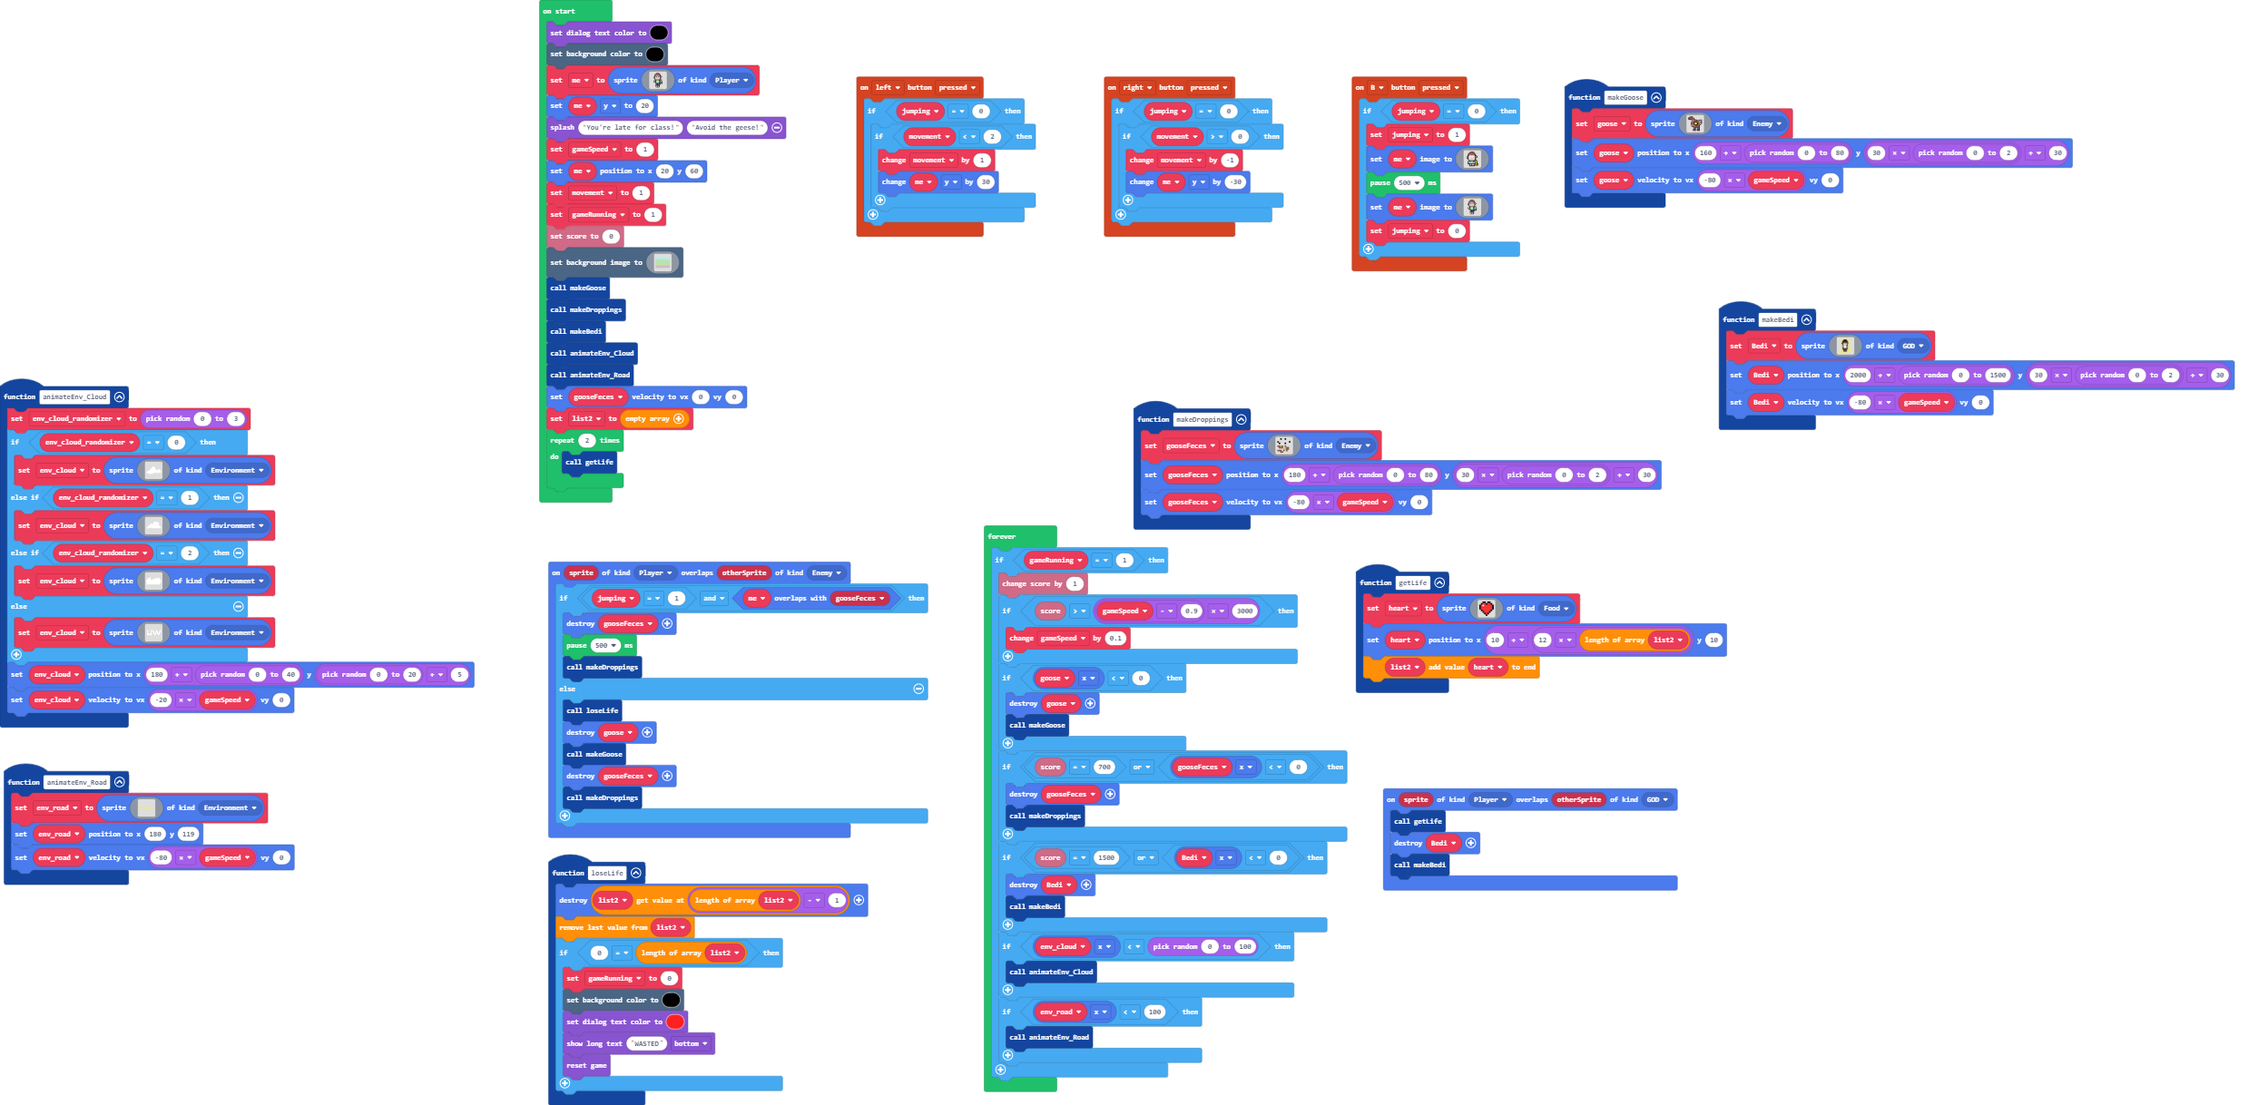
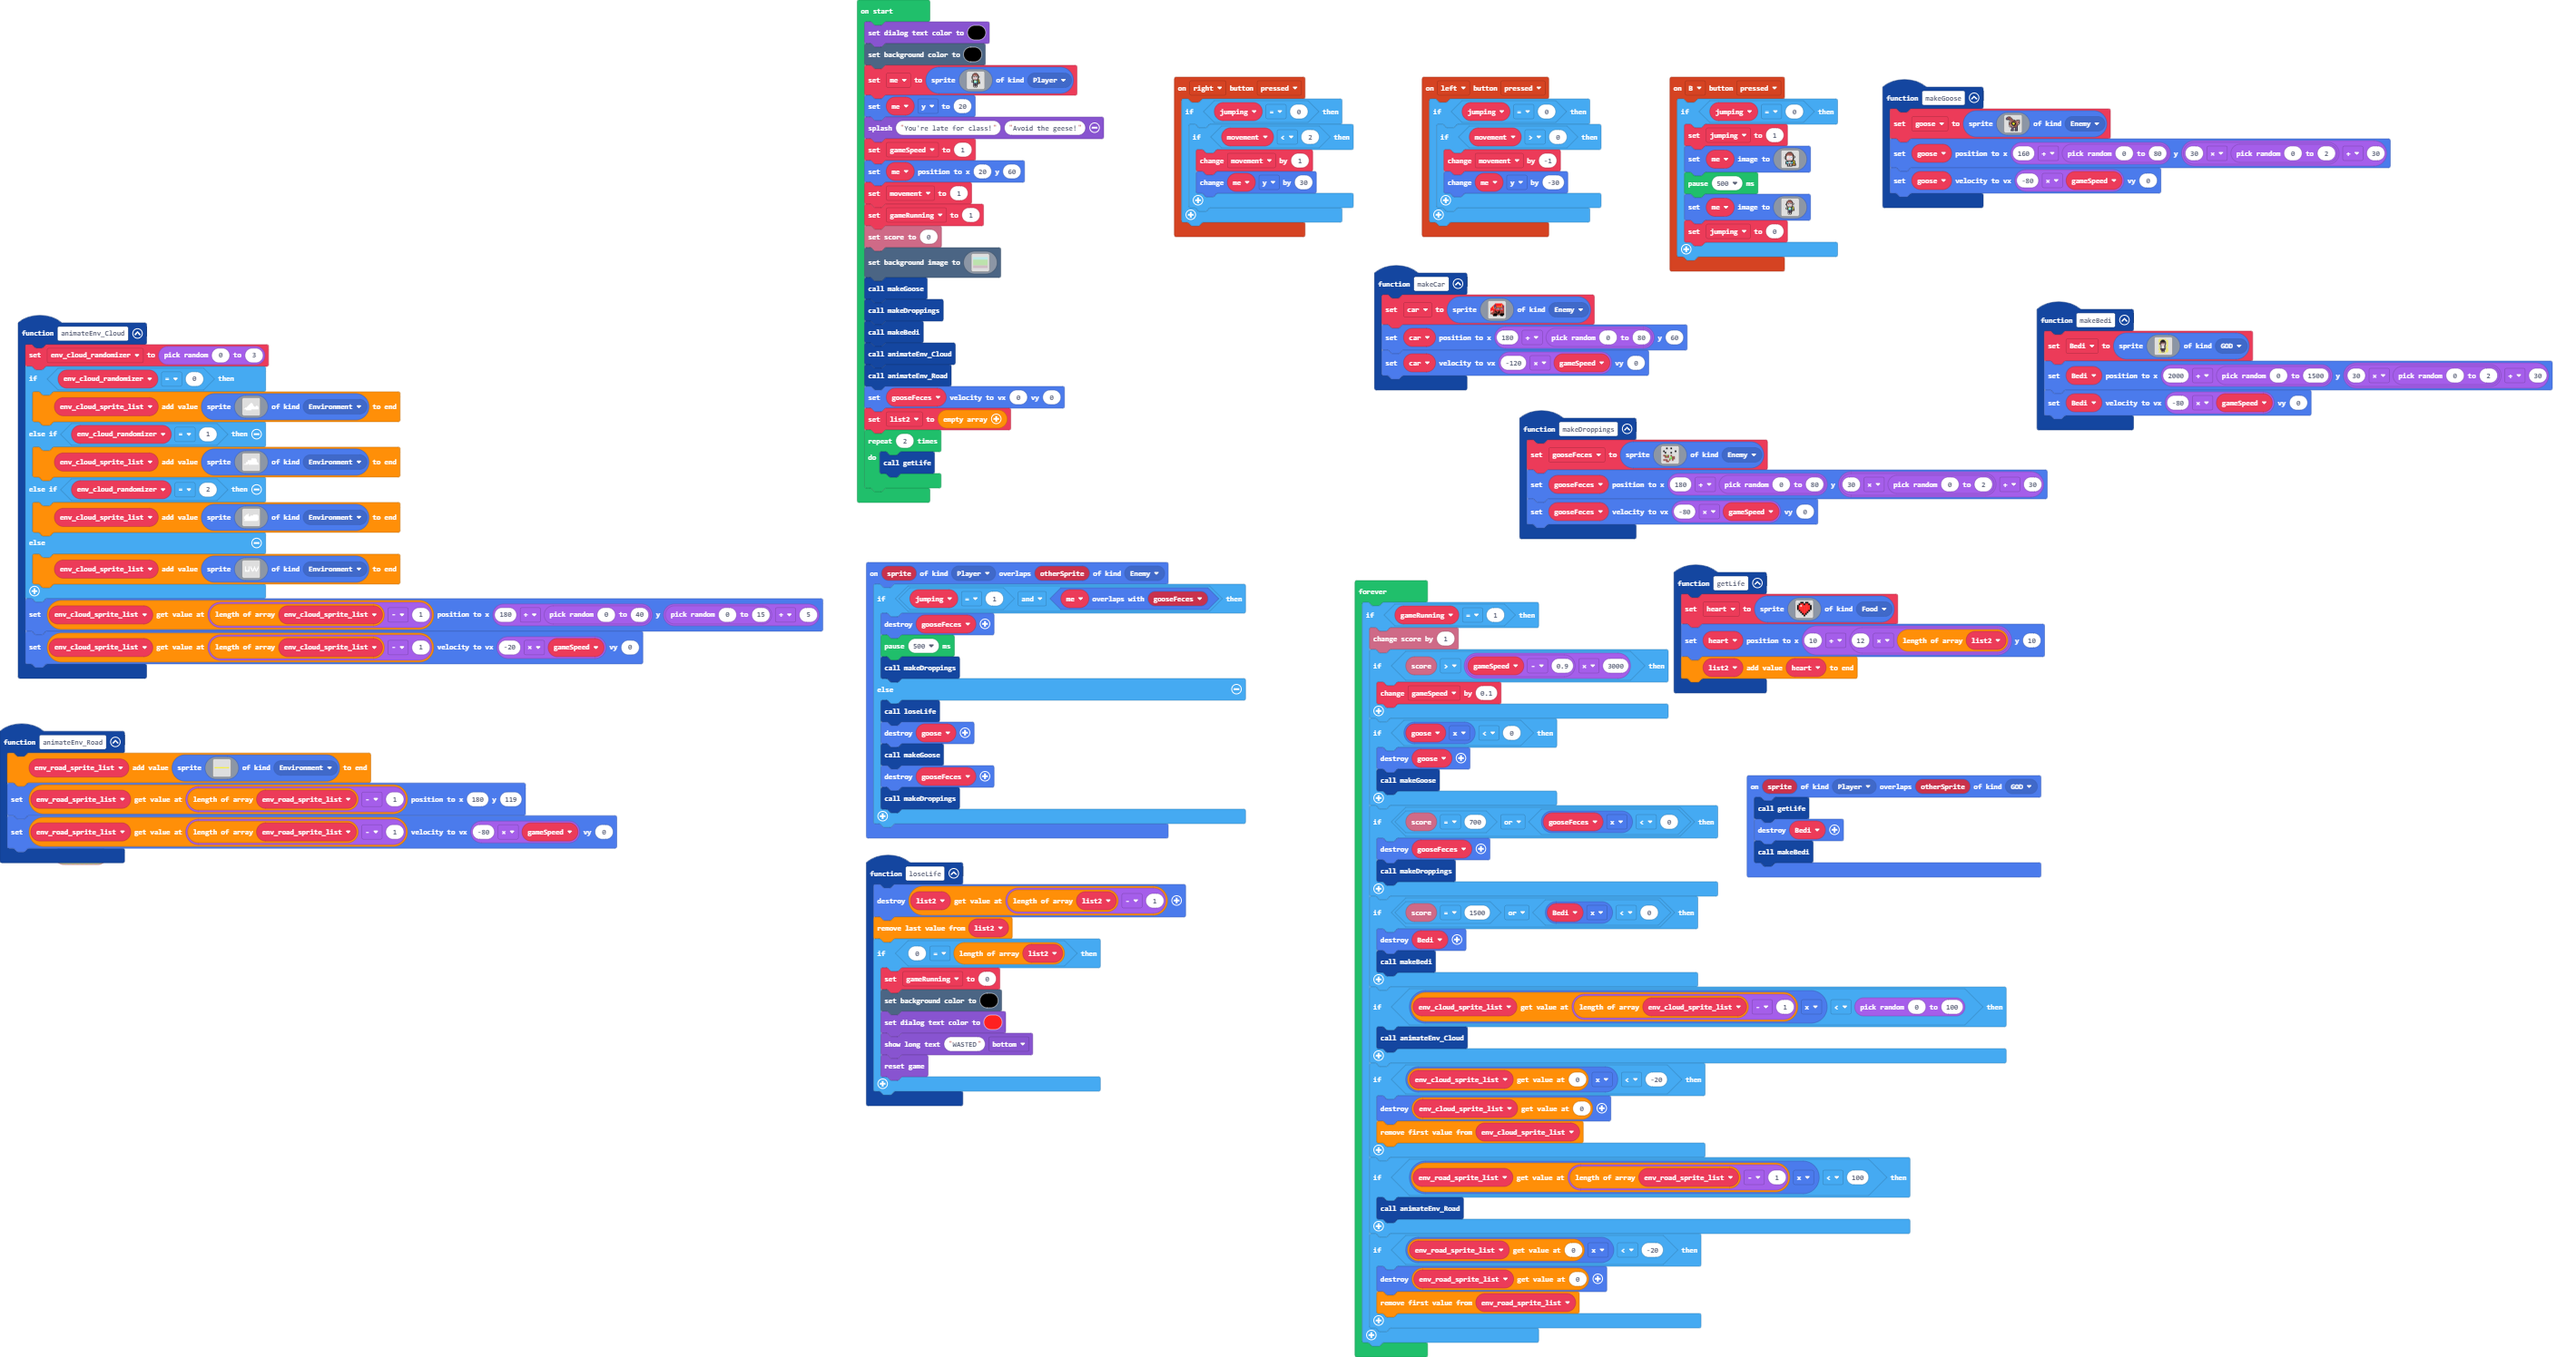
Fixed environment sprite lifecycle issue.

diff --git a/main.ts b/main.ts
@@ -124,12 +124,34 @@ function makeGoose () {
 }
 controller.left.onEvent(ControllerButtonEvent.Pressed, function () {
     if (jumping == 0) {
-        if (movement < 2) {
-            movement += 1
-            me.y += 30
+        if (movement > 0) {
+            movement += -1
+            me.y += -30
         }
     }
 })
+function makeCar () {
+    car = sprites.create(img`
+        . . . . . . . . . . . . . . . . 
+        . . . . . . 2 2 2 2 2 2 2 2 . . 
+        . . . . . 2 c 2 2 2 2 2 2 4 2 . 
+        . . . . 2 c c 2 2 2 2 2 2 4 c 2 
+        . . d 2 4 c c 2 4 4 4 4 4 4 c c 
+        . d 2 2 4 c b e e e e e e e 2 c 
+        . 2 2 2 4 b e e b b b e b b e 2 
+        . 2 2 2 2 2 e b b b b e b b b e 
+        . 2 2 2 2 e 2 2 2 2 2 e 2 2 2 e 
+        . 2 d d 2 e f e e e f e e e e e 
+        . d d 2 e e e f e e f e e e e e 
+        . e e e e e e e f f f e e e e e 
+        . e e e e f f f e e e e f f f f 
+        . . . e f f f f f e e f f f f f 
+        . . . . f f f f . . . . f f f . 
+        . . . . . . . . . . . . . . . . 
+        `, SpriteKind.Enemy)
+    car.setPosition(180 + randint(0, 80), 60)
+    car.setVelocity(-120 * gameSpeed, 0)
+}
 function loseLife () {
     list2[list2.length - 1].destroy()
     list2.pop()
@@ -143,9 +165,9 @@ function loseLife () {
 }
 controller.right.onEvent(ControllerButtonEvent.Pressed, function () {
     if (jumping == 0) {
-        if (movement > 0) {
-            movement += -1
-            me.y += -30
+        if (movement < 2) {
+            movement += 1
+            me.y += 30
         }
     }
 })
@@ -186,12 +208,12 @@ function makeBedi () {
     Bedi.setVelocity(-80 * gameSpeed, 0)
 }
 function animateEnv_Road () {
-    env_road = sprites.create(img`
+    env_road_sprite_list.push(sprites.create(img`
         5 5 5 5 5 5 5 5 5 5 5 5 5 5 5 5 5 5 5 5 5 5 5 5 5 5 5 5 5 5 
         5 5 5 5 5 5 5 5 5 5 5 5 5 5 5 5 5 5 5 5 5 5 5 5 5 5 5 5 5 5 
-        `, SpriteKind.Environment)
-    env_road.setPosition(180, 119)
-    env_road.setVelocity(-80 * gameSpeed, 0)
+        `, SpriteKind.Environment))
+    env_road_sprite_list[env_road_sprite_list.length - 1].setPosition(180, 119)
+    env_road_sprite_list[env_road_sprite_list.length - 1].setVelocity(-80 * gameSpeed, 0)
 }
 sprites.onOverlap(SpriteKind.Player, SpriteKind.GOD, function (sprite, otherSprite) {
     getLife()
@@ -201,7 +223,7 @@ sprites.onOverlap(SpriteKind.Player, SpriteKind.GOD, function (sprite, otherSpri
 function animateEnv_Cloud () {
     env_cloud_randomizer = randint(0, 3)
     if (env_cloud_randomizer == 0) {
-        env_cloud = sprites.create(img`
+        env_cloud_sprite_list.push(sprites.create(img`
             . . . . . . . 1 1 . . . . . . . 
             . . . . . . 1 1 1 1 . . . . . . 
             . . . . . 1 1 1 1 1 . . . . . . 
@@ -210,9 +232,9 @@ function animateEnv_Cloud () {
             . 1 1 1 1 1 1 1 1 1 1 1 1 1 1 1 
             1 1 1 1 1 1 1 1 1 1 1 1 1 1 1 1 
             . . 1 1 1 1 1 1 . . . . . . . . 
-            `, SpriteKind.Environment)
+            `, SpriteKind.Environment))
     } else if (env_cloud_randomizer == 1) {
-        env_cloud = sprites.create(img`
+        env_cloud_sprite_list.push(sprites.create(img`
             . . . . . . . . 1 1 1 1 1 . . . 
             . . . . . . . . 1 1 1 1 1 1 . . 
             . . . . 1 1 1 1 1 1 1 1 1 1 . . 
@@ -221,9 +243,9 @@ function animateEnv_Cloud () {
             . . 1 1 1 1 1 1 1 1 1 1 1 1 1 1 
             1 1 1 1 . 1 1 1 1 1 1 1 1 1 1 1 
             . . . . . . . . . . . . . . . . 
-            `, SpriteKind.Environment)
+            `, SpriteKind.Environment))
     } else if (env_cloud_randomizer == 2) {
-        env_cloud = sprites.create(img`
+        env_cloud_sprite_list.push(sprites.create(img`
             . . . . 1 . . . . . . . . . . . 
             . . 1 1 1 . . . . . 1 1 1 1 1 . 
             . 1 1 1 1 . . 1 1 1 1 1 1 1 1 1 
@@ -232,9 +254,9 @@ function animateEnv_Cloud () {
             1 1 1 1 1 1 1 1 1 1 1 1 1 1 1 1 
             . 1 1 1 1 1 1 1 1 1 1 1 1 1 1 1 
             1 1 1 1 1 1 1 1 1 1 1 1 1 1 1 . 
-            `, SpriteKind.Environment)
+            `, SpriteKind.Environment))
     } else {
-        env_cloud = sprites.create(img`
+        env_cloud_sprite_list.push(sprites.create(img`
             . . . . . . . . . . . . . . . . 
             . 1 . . . 1 . 1 . . . 1 . . . 1 
             . 1 . . . 1 . 1 . . . 1 . . . 1 
@@ -243,10 +265,10 @@ function animateEnv_Cloud () {
             . 1 1 . 1 1 . . 1 1 1 . 1 1 1 . 
             . 1 1 1 1 1 . . . 1 . . . 1 . . 
             . . . . . . . . . . . . . . . . 
-            `, SpriteKind.Environment)
+            `, SpriteKind.Environment))
     }
-    env_cloud.setPosition(180 + randint(0, 40), randint(0, 20) + 5)
-    env_cloud.setVelocity(-20 * gameSpeed, 0)
+    env_cloud_sprite_list[env_cloud_sprite_list.length - 1].setPosition(180 + randint(0, 40), randint(0, 15) + 5)
+    env_cloud_sprite_list[env_cloud_sprite_list.length - 1].setVelocity(-20 * gameSpeed, 0)
 }
 sprites.onOverlap(SpriteKind.Player, SpriteKind.Enemy, function (sprite, otherSprite) {
     if (jumping == 1 && me.overlapsWith(gooseFeces)) {
@@ -261,10 +283,11 @@ sprites.onOverlap(SpriteKind.Player, SpriteKind.Enemy, function (sprite, otherSp
         makeDroppings()
     }
 })
-let env_cloud: Sprite = null
+let env_cloud_sprite_list: Sprite[] = []
 let env_cloud_randomizer = 0
-let env_road: Sprite = null
+let env_road_sprite_list: Sprite[] = []
 let Bedi: Sprite = null
+let car: Sprite = null
 let goose: Sprite = null
 let jumping = 0
 let heart: Sprite = null
@@ -461,11 +484,19 @@ forever(function () {
             Bedi.destroy()
             makeBedi()
         }
-        if (env_cloud.x < randint(0, 100)) {
+        if (env_cloud_sprite_list[env_cloud_sprite_list.length - 1].x < randint(0, 100)) {
             animateEnv_Cloud()
         }
-        if (env_road.x < 100) {
+        if (env_cloud_sprite_list[0].x < -20) {
+            env_cloud_sprite_list[0].destroy()
+            env_cloud_sprite_list.shift()
+        }
+        if (env_road_sprite_list[env_road_sprite_list.length - 1].x < 100) {
             animateEnv_Road()
+        }
+        if (env_road_sprite_list[0].x < -20) {
+            env_road_sprite_list[0].destroy()
+            env_road_sprite_list.shift()
         }
     }
 })

diff --git a/main.py b/main.py
@@ -2,59 +2,6 @@
 class SpriteKind:
     GOD = SpriteKind.create()
     Environment = SpriteKind.create()
-def animateEnv():
-    global env_cloud_randomizer, env_cloud
-    env_cloud_randomizer = randint(0, 3)
-    if env_cloud_randomizer == 0:
-        env_cloud = sprites.create(img("""
-                . . . . . . . 1 1 . . . . . . . 
-                            . . . . . . 1 1 1 1 . . . . . . 
-                            . . . . . 1 1 1 1 1 . . . . . . 
-                            . . . . 1 1 1 1 1 1 1 . . 1 1 . 
-                            . . . 1 1 1 1 1 1 1 1 1 1 1 1 1 
-                            . 1 1 1 1 1 1 1 1 1 1 1 1 1 1 1 
-                            1 1 1 1 1 1 1 1 1 1 1 1 1 1 1 1 
-                            . . 1 1 1 1 1 1 . . . . . . . .
-            """),
-            SpriteKind.Environment)
-    elif env_cloud_randomizer == 1:
-        env_cloud = sprites.create(img("""
-                . . . . . . . . 1 1 1 1 1 . . . 
-                            . . . . . . . . 1 1 1 1 1 1 . . 
-                            . . . . 1 1 1 1 1 1 1 1 1 1 . . 
-                            . . . . 1 1 1 1 1 1 1 1 1 1 . . 
-                            . . 1 1 1 1 1 1 1 1 1 1 1 1 1 . 
-                            . . 1 1 1 1 1 1 1 1 1 1 1 1 1 1 
-                            1 1 1 1 . 1 1 1 1 1 1 1 1 1 1 1 
-                            . . . . . . . . . . . . . . . .
-            """),
-            SpriteKind.Environment)
-    elif env_cloud_randomizer == 2:
-        env_cloud = sprites.create(img("""
-                . . . . 1 . . . . . . . . . . . 
-                            . . 1 1 1 . . . . . 1 1 1 1 1 . 
-                            . 1 1 1 1 . . 1 1 1 1 1 1 1 1 1 
-                            1 1 1 1 1 1 1 1 1 1 1 1 1 1 1 1 
-                            1 1 1 1 1 1 1 1 1 1 1 1 1 1 1 1 
-                            1 1 1 1 1 1 1 1 1 1 1 1 1 1 1 1 
-                            . 1 1 1 1 1 1 1 1 1 1 1 1 1 1 1 
-                            1 1 1 1 1 1 1 1 1 1 1 1 1 1 1 .
-            """),
-            SpriteKind.Environment)
-    else:
-        env_cloud = sprites.create(img("""
-                . . . . . . . . . . . . . . . . 
-                            . 1 . . . 1 . 1 . . . 1 . . . 1 
-                            . 1 . . . 1 . 1 . . . 1 . . . 1 
-                            . 1 . . . 1 . 1 1 . 1 1 1 . 1 1 
-                            . 1 . . . 1 . . 1 . 1 . 1 . 1 . 
-                            . 1 1 . 1 1 . . 1 1 1 . 1 1 1 . 
-                            . 1 1 1 1 1 . . . 1 . . . 1 . . 
-                            . . . . . . . . . . . . . . . .
-            """),
-            SpriteKind.Environment)
-    env_cloud.set_position(180 + randint(0, 40), randint(0, 10) + 5)
-    env_cloud.set_velocity(-30 * gameSpeed, 0)
 def getLife():
     global heart
     heart = sprites.create(img("""
@@ -184,11 +131,34 @@ def makeGoose():
 def on_left_pressed():
     global movement
     if jumping == 0:
-        if movement < 2:
-            movement += 1
-            me.y += 30
+        if movement > 0:
+            movement += -1
+            me.y += -30
 controller.left.on_event(ControllerButtonEvent.PRESSED, on_left_pressed)
 
+def makeCar():
+    global car
+    car = sprites.create(img("""
+            . . . . . . . . . . . . . . . . 
+                    . . . . . . 2 2 2 2 2 2 2 2 . . 
+                    . . . . . 2 c 2 2 2 2 2 2 4 2 . 
+                    . . . . 2 c c 2 2 2 2 2 2 4 c 2 
+                    . . d 2 4 c c 2 4 4 4 4 4 4 c c 
+                    . d 2 2 4 c b e e e e e e e 2 c 
+                    . 2 2 2 4 b e e b b b e b b e 2 
+                    . 2 2 2 2 2 e b b b b e b b b e 
+                    . 2 2 2 2 e 2 2 2 2 2 e 2 2 2 e 
+                    . 2 d d 2 e f e e e f e e e e e 
+                    . d d 2 e e e f e e f e e e e e 
+                    . e e e e e e e f f f e e e e e 
+                    . e e e e f f f e e e e f f f f 
+                    . . . e f f f f f e e f f f f f 
+                    . . . . f f f f . . . . f f f . 
+                    . . . . . . . . . . . . . . . .
+        """),
+        SpriteKind.enemy)
+    car.set_position(180 + randint(0, 80), 60)
+    car.set_velocity(-120 * gameSpeed, 0)
 def loseLife():
     global gameRunning
     list2[len(list2) - 1].destroy()
@@ -203,9 +173,9 @@ def loseLife():
 def on_right_pressed():
     global movement
     if jumping == 0:
-        if movement > 0:
-            movement += -1
-            me.y += -30
+        if movement < 2:
+            movement += 1
+            me.y += 30
 controller.right.on_event(ControllerButtonEvent.PRESSED, on_right_pressed)
 
 def makeBedi():
@@ -245,12 +215,75 @@ def makeBedi():
         SpriteKind.GOD)
     Bedi.set_position(2000 + randint(0, 1500), 30 * randint(0, 2) + 30)
     Bedi.set_velocity(-80 * gameSpeed, 0)
+def animateEnv_Road():
+    global env_road
+    env_road = sprites.create(img("""
+            5 5 5 5 5 5 5 5 5 5 5 5 5 5 5 5 5 5 5 5 5 5 5 5 5 5 5 5 5 5 
+                    5 5 5 5 5 5 5 5 5 5 5 5 5 5 5 5 5 5 5 5 5 5 5 5 5 5 5 5 5 5
+        """),
+        SpriteKind.Environment)
+    env_road.set_position(180, 119)
+    env_road.set_velocity(-80 * gameSpeed, 0)
 
 def on_on_overlap(sprite, otherSprite):
     getLife()
     Bedi.destroy()
     makeBedi()
 sprites.on_overlap(SpriteKind.player, SpriteKind.GOD, on_on_overlap)
+
+def animateEnv_Cloud():
+    global env_cloud_randomizer
+    env_cloud_randomizer = randint(0, 3)
+    if env_cloud_randomizer == 0:
+        env_cloud_sprite_list.append(sprites.create(img("""
+                    . . . . . . . 1 1 . . . . . . . 
+                                . . . . . . 1 1 1 1 . . . . . . 
+                                . . . . . 1 1 1 1 1 . . . . . . 
+                                . . . . 1 1 1 1 1 1 1 . . 1 1 . 
+                                . . . 1 1 1 1 1 1 1 1 1 1 1 1 1 
+                                . 1 1 1 1 1 1 1 1 1 1 1 1 1 1 1 
+                                1 1 1 1 1 1 1 1 1 1 1 1 1 1 1 1 
+                                . . 1 1 1 1 1 1 . . . . . . . .
+                """),
+                SpriteKind.Environment))
+    elif env_cloud_randomizer == 1:
+        env_cloud_sprite_list.append(sprites.create(img("""
+                    . . . . . . . . 1 1 1 1 1 . . . 
+                                . . . . . . . . 1 1 1 1 1 1 . . 
+                                . . . . 1 1 1 1 1 1 1 1 1 1 . . 
+                                . . . . 1 1 1 1 1 1 1 1 1 1 . . 
+                                . . 1 1 1 1 1 1 1 1 1 1 1 1 1 . 
+                                . . 1 1 1 1 1 1 1 1 1 1 1 1 1 1 
+                                1 1 1 1 . 1 1 1 1 1 1 1 1 1 1 1 
+                                . . . . . . . . . . . . . . . .
+                """),
+                SpriteKind.Environment))
+    elif env_cloud_randomizer == 2:
+        env_cloud_sprite_list.append(sprites.create(img("""
+                    . . . . 1 . . . . . . . . . . . 
+                                . . 1 1 1 . . . . . 1 1 1 1 1 . 
+                                . 1 1 1 1 . . 1 1 1 1 1 1 1 1 1 
+                                1 1 1 1 1 1 1 1 1 1 1 1 1 1 1 1 
+                                1 1 1 1 1 1 1 1 1 1 1 1 1 1 1 1 
+                                1 1 1 1 1 1 1 1 1 1 1 1 1 1 1 1 
+                                . 1 1 1 1 1 1 1 1 1 1 1 1 1 1 1 
+                                1 1 1 1 1 1 1 1 1 1 1 1 1 1 1 .
+                """),
+                SpriteKind.Environment))
+    else:
+        env_cloud_sprite_list.append(sprites.create(img("""
+                    . . . . . . . . . . . . . . . . 
+                                . 1 . . . 1 . 1 . . . 1 . . . 1 
+                                . 1 . . . 1 . 1 . . . 1 . . . 1 
+                                . 1 . . . 1 . 1 1 . 1 1 1 . 1 1 
+                                . 1 . . . 1 . . 1 . 1 . 1 . 1 . 
+                                . 1 1 . 1 1 . . 1 1 1 . 1 1 1 . 
+                                . 1 1 1 1 1 . . . 1 . . . 1 . . 
+                                . . . . . . . . . . . . . . . .
+                """),
+                SpriteKind.Environment))
+    env_cloud_sprite_list[len(env_cloud_sprite_list) - 1].set_position(180 + randint(0, 40), randint(0, 15) + 5)
+    env_cloud_sprite_list[len(env_cloud_sprite_list) - 1].set_velocity(-20 * gameSpeed, 0)
 
 def on_on_overlap2(sprite, otherSprite):
     if jumping == 1 and me.overlaps_with(gooseFeces):
@@ -265,12 +298,14 @@ def on_on_overlap2(sprite, otherSprite):
         makeDroppings()
 sprites.on_overlap(SpriteKind.player, SpriteKind.enemy, on_on_overlap2)
 
+env_cloud_sprite_list: List[Sprite] = []
+env_cloud_randomizer = 0
+env_road: Sprite = None
 Bedi: Sprite = None
+car: Sprite = None
 goose: Sprite = None
 jumping = 0
 heart: Sprite = None
-env_cloud: Sprite = None
-env_cloud_randomizer = 0
 list2: List[Sprite] = []
 gooseFeces: Sprite = None
 gameRunning = 0
@@ -440,6 +475,8 @@ scene.set_background_image(img("""
 makeGoose()
 makeDroppings()
 makeBedi()
+animateEnv_Cloud()
+animateEnv_Road()
 gooseFeces.set_velocity(0, 0)
 list2 = []
 for index in range(2):
@@ -460,6 +497,11 @@ def on_forever():
         if info.score() == 1500 or Bedi.x < 0:
             Bedi.destroy()
             makeBedi()
-        if env_cloud.x < randint(0, 120):
-            animateEnv()
+        if env_cloud_sprite_list[len(env_cloud_sprite_list) - 1].x < randint(0, 100):
+            animateEnv_Cloud()
+        if env_cloud_sprite_list[0].x < 50:
+            env_cloud_sprite_list[0].destroy()
+            env_cloud_sprite_list.shift()
+        if env_road.x < 100:
+            animateEnv_Road()
 forever(on_forever)
